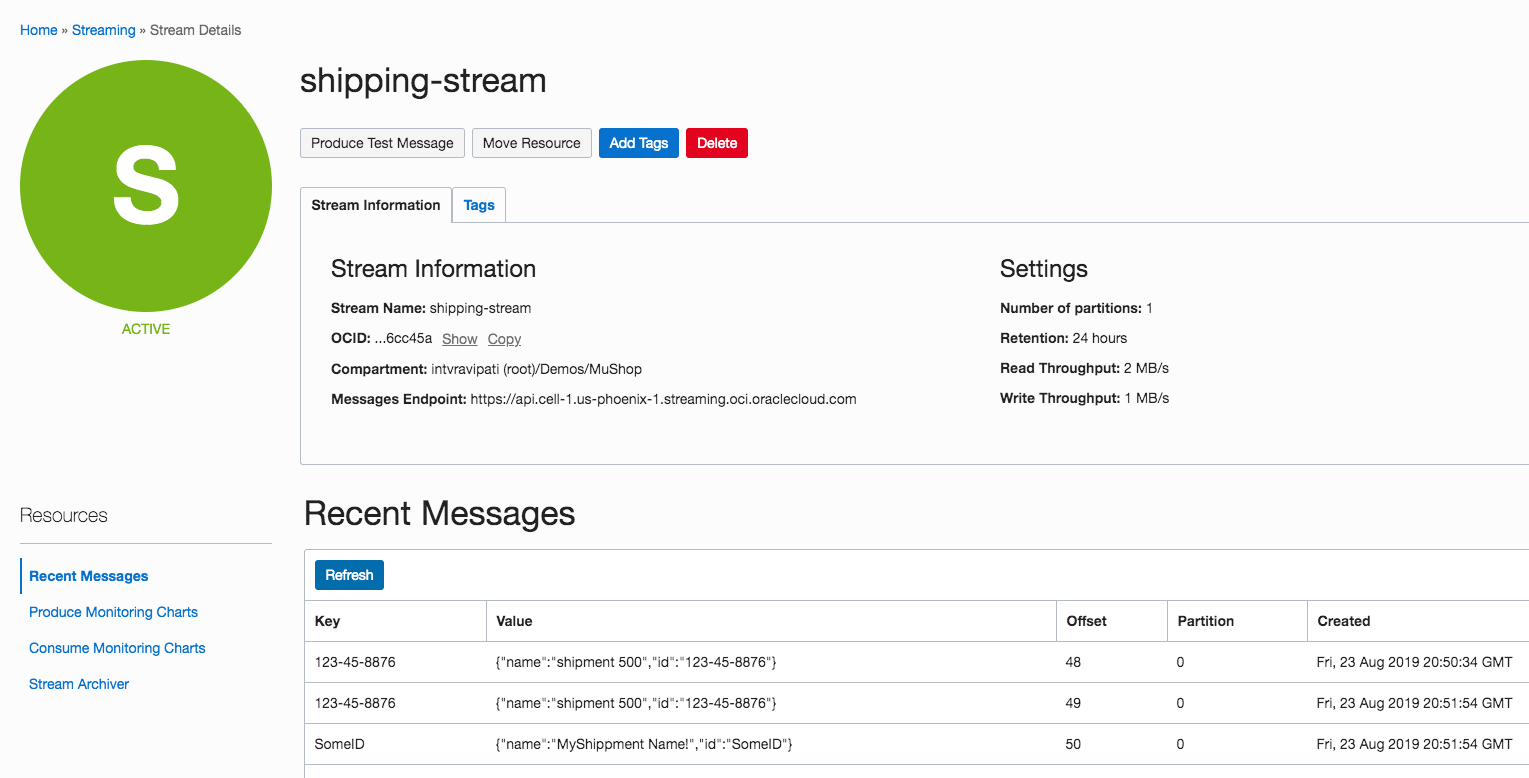
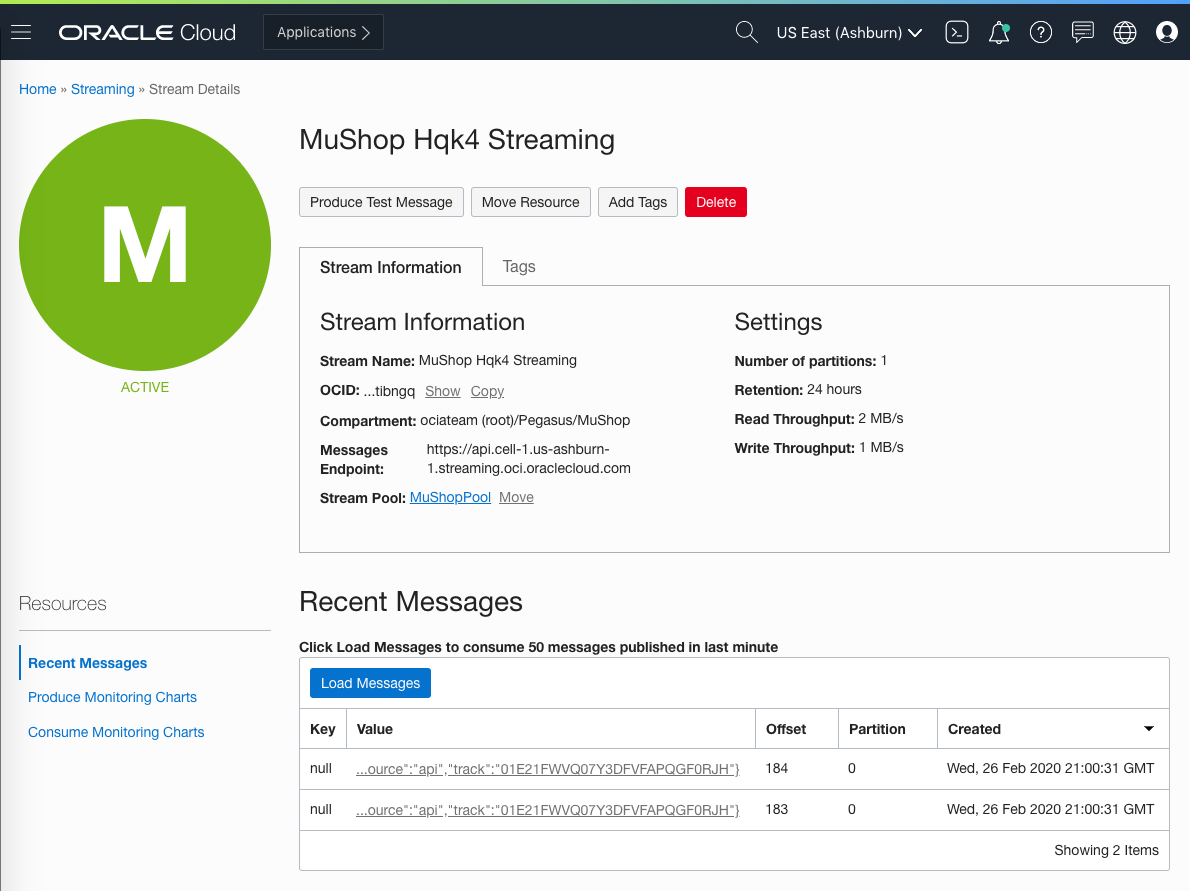
updated streaming

diff --git a/workshop/streaming.html b/workshop/streaming.html
@@ -3,7 +3,7 @@
   <!-- landing -->
   <section id="home">
     <h1>Cloud Native OCI</h1>
-    <h2>Shipping and Streaming</h2>
+    <h2>Streaming service</h2>
     include "partials/_titleSlide.html"
   </section>
 
@@ -12,8 +12,9 @@
     <h2>Table of Contents</h2>
     <ul class="plain">
       <!-- add a line for each <section id="slideId">...</section>  -->
-      <li><a href="#oss_intro">Home</a></li>
-      <li><a href="#lab">Lab Overview</a></li>
+      <li><a href="#oss_intro">Background</a></li>
+      <li><a href="#usecase">Use Case</a></li>
+      <li><a href="#lab">Lab</a></li>
     </ul>
   </section>
 </section>
@@ -144,37 +145,7 @@
       </ul>
     </div>
   </section>
-  <section>
-    <h2>Mushop Use Case</h2>
-
-    <div class="mu-flex mu-flex-middle mu-margin">
-      <div class="mu-svc fragment fade-in">
-        <img data-src="/images/tech/java.png" /> Order
-      </div>
-      <div class="mu-flex-connector arrow fragment fade-in"></div>
-      <div class="mu-svc fragment fade-in">
-        <img data-src="/images/tech/java.png" /> Shipping
-      </div>
-      <div class="mu-flex-connector arrow fragment fade-in">producer</div>
-      <div class="mu-svc fragment fade-in">
-        <img data-src="/images/tech/streaming.svg" /> OSS
-      </div>
-      <div class="mu-flex-connector arrow-left fragment fade-in">consumer</div>
-      <div class="mu-svc fragment fade-in">
-        <img data-src="/images/tech/java.png" /> Stream
-      </div>
-      <div class="mu-flex-connector arrow fragment fade-in"></div>
-      <div class="mu-svc fragment fade-in">
-        <img data-src="/images/streams/shipping-2.png" /> Fulfillment
-      </div>
-    </div>
-
-    <aside class="notes" data-markdown>
-      We have two services as part of MuShop using the streaming service. First, we have the <b><code>shipping</code></b>
-      service: once an order is created, shipping service puts a message with order information on to the stream. Then,
-      we have stream consumer that simply reads those messages from a stream as they come in.
-    </aside>
-  </section>
+  
   <section>
     <h2>Connecting to OSS</h2>
     <div class="mu-flex mu-gutter">
@@ -219,54 +190,53 @@
       </div>
       <div class="card col-1-2 fragment mu-medium">
         Sample Kubernetes deployment configurations:
-        <pre class="mu-ratio mu-ratio-1-1"><code class="hljs yaml"># Source: mushop/charts/shipping/templates/shipping-deployment.yaml
+        <pre class="mu-ratio mu-ratio-1-1"><code class="hljs yaml"># Source: mushop/charts/events/templates/events-deployment.yaml
 env:
-  # access configurations
-  - name: STREAM_NAME
+  # API credentials
+  - name: TENANCY
     valueFrom:
       secretKeyRef:
-        name: mushop-oss-connection
-        key: streamName
+        name: oci-credentials
+        key: tenancy
+  - name: REGION
+    valueFrom:
+      secretKeyRef:
+        name: oci-credentials
+        key: region
+        optional: true
+  - name: USER_ID
+    valueFrom:
+      secretKeyRef:
+        name: oci-credentials
+        key: user
+  - name: PRIVATE_KEY
+    valueFrom:
+      secretKeyRef:
+        name: oci-credentials
+        key: privatekey
+  - name: FINGERPRINT
+    valueFrom:
+      secretKeyRef:
+        name: oci-credentials
+        key: fingerprint
+  - name: PASSPHRASE
+    valueFrom:
+      secretKeyRef:
+        name: oci-credentials
+        key: passphrase
+        optional: true
+  # Stream connection
   - name: STREAM_ID
     valueFrom:
       secretKeyRef:
-        name: mushop-oss-connection
+        name: oss-connection
         key: streamId
-  - name: OCI_TENANT_ID
+  - name: MESSAGES_ENDPOINT
     valueFrom:
       secretKeyRef:
-        name: streaming-secret
-        key: oci_tenant_id
-  - name: OCI_USER_ID
-    valueFrom:
-      secretKeyRef:
-        name: streaming-secret
-        key: oci_user_id
-  - name: OCI_FINGERPRINT
-    valueFrom:
-      secretKeyRef:
-        name: streaming-secret
-        key: oci_fingerprint
-  - name: OCI_PASS_PHRASE
-    valueFrom:
-      secretKeyRef:
-        name: streaming-secret
-        key: oci_pass_phrase
-  - name: OCI_API_KEY
-    valueFrom:
-      secretKeyRef:
-        name: streaming-secret
-        key: oci_api_key
-  - name: OCI_REGION
-    valueFrom:
-      secretKeyRef:
-        name: streaming-secret
-        key: oci_region
-  - name: OCI_COMPARTMENT_ID
-    valueFrom:
-      secretKeyRef:
-        name: streaming-secret
-        key: oci_compartment_id</code></pre>
+        name: oss-connection
+        key: messageEndpoint
+        optional: true</code></pre>
       </div>
     </div>
   </section>
@@ -381,6 +351,38 @@ CreateCursorResponse cursorResponse =
 
 </section> <!-- end of lecture-->
 
+<section id="usecase">
+  <section>
+    <h2>Mushop Use Case</h2>
+
+    <div class="mu-flex mu-flex-middle mu-margin">
+      <div class="mu-svc fragment fade-in">
+        <img data-src="/images/tech/nodejs.png" /> API
+      </div>
+      <div class="mu-flex-connector arrow fragment fade-in"></div>
+      <div class="mu-svc fragment fade-in">
+        <img data-src="/images/tech/go.png" /> Events
+      </div>
+      <div class="mu-flex-connector arrow fragment fade-in">producer</div>
+      <div class="mu-svc fragment fade-in">
+        <img data-src="/images/oci/streaming.svg" /> OSS
+      </div>
+      <div class="mu-flex-connector arrow-left fragment fade-in">consumer</div>
+      <div class="mu-svc fragment fade-in">
+        <img data-src="/images/tech/bucket.svg" /> Bucket
+      </div>
+    </div>
+
+    <aside class="notes" data-markdown>
+      There are two services as part of MuShop using the streaming service. First, there is the <b><code>events</code></b>
+      service: customer behavior is captured as stream messages (conversion funnel) at each phase of the shopping experience.
+      These messages may then be consumed by an archive storage bucket, data warehouse, etc.
+    </aside>
+  </section>
+
+
+</section>
+
 <!-- Lab -->
 <section id="lab">
   <section>
@@ -392,7 +394,6 @@ CreateCursorResponse cursorResponse =
         <li class="fragment">Configure</li>
         <li class="fragment">Deploy</li>
         <li class="fragment">Verify</li>
-        <li class="fragment">Outputs</li>
       </ul>
       <ul class="col-1-1">
         <li>
@@ -422,23 +423,21 @@ CreateCursorResponse cursorResponse =
           <hr>
           <ol class="mu-medium">
             <li>
-              Create a secret called <code class="fg-red">oci-credentials</code> with API
+              Create a secret called <code class="fg-orange">oci-credentials</code> with API
               credentials to connect services from within the cluster:
               <pre><code class="hljs sh">kubectl create secret generic oci-credentials \
-  --from-literal=tenancy=&lt;TENANCY_OCID&gt; \
-  --from-literal=user=&lt;USER_OCID&gt; \
-  --from-literal=region=&lt;USER_OCI_REGION&gt; \
-  --from-literal=fingerprint=&lt;PUBLIC_API_KEY_FINGERPRINT&gt; \
-  --from-literal=passphrase=&lt;PRIVATE_API_KEY_PASSPHRASE&gt; \
-  --from-file=privatekey=&lt;PATH_OF_PRIVATE_API_KEY&gt;</code></pre>
+  --from-literal=tenancy='&lt;TENANCY_OCID&gt'; \
+  --from-literal=user='&lt;USER_OCID&gt;' \
+  --from-literal=region='&lt;USER_OCI_REGION&gt;' \
+  --from-literal=fingerprint='&lt;PUBLIC_API_KEY_FINGERPRINT&gt;' \
+  --from-literal=passphrase='&lt;PRIVATE_API_KEY_PASSPHRASE&gt;' \
+  --from-file=privatekey='&lt;PATH_OF_PRIVATE_API_KEY&gt;'</code></pre>
             </li>
             <li>
-              Create a <code class="fg-red">oss-connection</code> secret:
-                  <pre><code class="hljs shell">kubectl create secret generic oss-connection \
-  --from-literal=compartmentId='&lt;COMPARTMENT_OCID&gt;' \
-  --from-literal=region='&lt;REGION_NAME&gt;' \
+              Create an <code class="fg-orange">oss-connection</code> secret:
+              <pre><code class="hljs sh">kubectl create secret generic oss-connection \
   --from-literal=streamId='&lt;STREAM_OCID&gt;' \
-  --from-literal=streamName='&lt;STREAM_NAME&gt;'</code></pre>
+  --from-literal=messageEndpoint='&lt;MESSAGE_ENDPOINT_URL&gt;'</code></pre>
             </li>
             <li>
               include "_myvalues.html"
@@ -470,47 +469,46 @@ global:
 
         <!-- verify -->
         <li>
-          Verify the streaming flow by sending a test message to the shipping
+          Verify the streaming flow by sending a test message to the events tracking
           service
           <hr>
           <div class="mu-flex mu-flex-stretch mu-medium">
             <div class="col-1-2">
               <div class="mu-flex mu-gutter mu-wrap">
                 <div class="card col-1-1">
-                  To tail the application logs first you need to find the <code>shipping</code> and <code>stream</code> pod names:
+                  To tail the application logs first you need to find the <code>events</code> pod name:
                   <pre><code class="hljs text">kubectl get po</code></pre>
                 </div>
                 <div class="card col-1-1">
-                  <code>&gt;</code> Terminal 1: Tail <code>shipping</code> logs:
-                  <pre class="no-margin"><code class="hljs text">kubectl logs -f mushop-shipping-d475m</code></pre>
+                  <code>&gt;</code> Terminal 1: Tail <code>events</code> logs:
+                  <pre class="no-margin"><code class="hljs text">kubectl logs -f --tail 10 mushop-events-gx8wj</code></pre>
                   <span class="mu-muted">(name will vary)</span>
                 </div>
                 <div class="card col-1-1">
-                  <code>&gt;</code> Terminal 2: Tail <code>stream</code> logs:
-                  <pre class="no-margin"><code class="hljs text">kubectl logs -f mushop-stream-d475m</code></pre>
-                  <span class="mu-muted">(name will vary)</span>
+                  <code>&gt;</code> Terminal 2: Expose the <code>events</code> service:
+                  <pre><code class="hljs text">kubectl port-forward svc/mushop-events 8000:80</code></pre>
                 </div>
               </div>
             </div>
 
             <div class="mu-flex-connector arrow mu-valign"></div>
             <div class="card col-1-2">
-              Expose the <code>shipping</code> service:
-              <pre><code class="hljs text">kubectl port-forward svc/shipping 8000:80</code></pre>
-              
-              <code>&gt;</code> Terminal 3: Send a test message to the shipping
+              <code>&gt;</code> Terminal 3: Send a test message to the tracking
               microservice:
               <pre><code class="hljs sh">curl -X POST \
-  http://localhost:8000/shipping \
+  http://localhost:8000/events \
   -H 'Content-Type: application/json' \
-  -H 'cache-control: no-cache' \
-  -d '{ 
-    "id": "123-45-8876",
-    "name": "shipment 500" 
+  -d '{
+    "source": "test",
+    "track": "abc1234",
+    "events": [{
+      "type": "any",
+      "detail": "hello"
+    }]
   }'</code></pre>
               <blockquote class="mu-medium">
                 👀 Watch the terminals and observe messages being produced by 
-                <code>shipping</code>, then consumed in the <code>stream</code>
+                <code>events</code>
               </blockquote>
 
               <blockquote class="mu-medium">
@@ -519,21 +517,6 @@ global:
               </blockquote>
             </div>
           </div>
-        </li>
-
-        <li>
-          Sample outputs from shipping and stream services
-          <hr>
-          Shipping service output:
-          <pre><code class="hljs text">{"name":"shipment 500","id":"123-45-8876"}
-Created a list with one message
-Publishing 1 messages to stream ocid1.stream.oc1.phx.aaaaaaaaa5acbmqg4t3ul6dyy3kbcihsxpw66tvpyxw7j7kesmdz3i6cc45a.
-Published message to partition 0, offset 192</code></pre>
-
-          Stream service output:
-          <pre><code class="hljs text">Received shipment task: shipment 500
-Shipment{id='123-45-8876', name='shipment 500'}
-Received shipment task: shipment 500</code></pre>
         </li>
       </ul>
     </div>
@@ -546,14 +529,14 @@ Received shipment task: shipment 500</code></pre>
       access the OCI console.
     </p>
     <div class="fragment-set">
-      <div class="mu-flex mu-gutter fragment">
-        <div><img class="plain" width="100%" data-src="/images/streams/console1.png" alt="Analytics - Streaming" /></div>
-        <div><img class="plain" width="100%" data-src="/images/streams/console2.png"
-            alt="Analytics - Streaming - Overview" /></div>
+      <div class="fragment mu-flex mu-gutter">
+        <div class="col-1-3"><img data-src="/images/streams/console1.png" alt="Analytics - Streaming" /></div>
+        <div class="col-2-3"><img data-src="/images/streams/console2.png" alt="Analytics - Streaming - Overview" /></div>
       </div>
-      <div class="fragment">
-      <img class="plain" width="100%" data-src="/images/streams/console3.png"
-        alt="Anaylics - Streaming - Stream Details" />
+      <div class="fragment mu-ratio mu-ratio-2-1">
+        <div class="mu-overflow">
+          <img data-src="/images/streams/console3.png" alt="Anaylics - Streaming - Stream Details" />
+        </div>
       </div>
     </div>
   </section>

diff --git a/_wrapper.html b/_wrapper.html
@@ -41,6 +41,7 @@
   </div>
 
   <script src="/js/reveal.min.js"></script>
+  
 
   <script>
     if (window.location.search.match(/print-pdf/gi)) {
@@ -68,6 +69,14 @@
       document.body.setAttribute('data-slide', id);
     });
   </script>
+
+  <!-- mermaid -->
+  <script src="https://unpkg.com/mermaid@8.4.8/dist/mermaid.min.js"></script>
+  <script>mermaid.initialize({
+    startOnLoad:true,
+    theme: 'neutral',
+    fontFamily: 'Oracle Sans',
+  });</script>
 </body>
 
 </html>

diff --git a/workshop/partials/_agenda.html b/workshop/partials/_agenda.html
@@ -61,8 +61,8 @@
       </tr> -->
       <tr>
         <td>6</td>
-        <td><a href="/workshop/shipping.html" target="_blank">Lab: Streaming</a></td>
-        <td>Streaming in Shipping service</td>
+        <td><a href="/workshop/streaming.html" target="_blank">Lab: Streaming</a></td>
+        <td>Tracking application events in a stream</td>
         <td>Java - OCI Streaming</td>
       </tr>
       <tr>

diff --git a/css/theme/source/mu.scss b/css/theme/source/mu.scss
@@ -341,6 +341,14 @@ a.title-print {
 	}
 }
 
+// Diagrams
+// @see https://mermaid-js.github.io/mermaid/#/flowchart
+.mermaid {
+  visibility: hidden;
+  &[data-processed] {
+    visibility: visible;
+  }
+}
 
 // width elements
 .col-1-1 {
